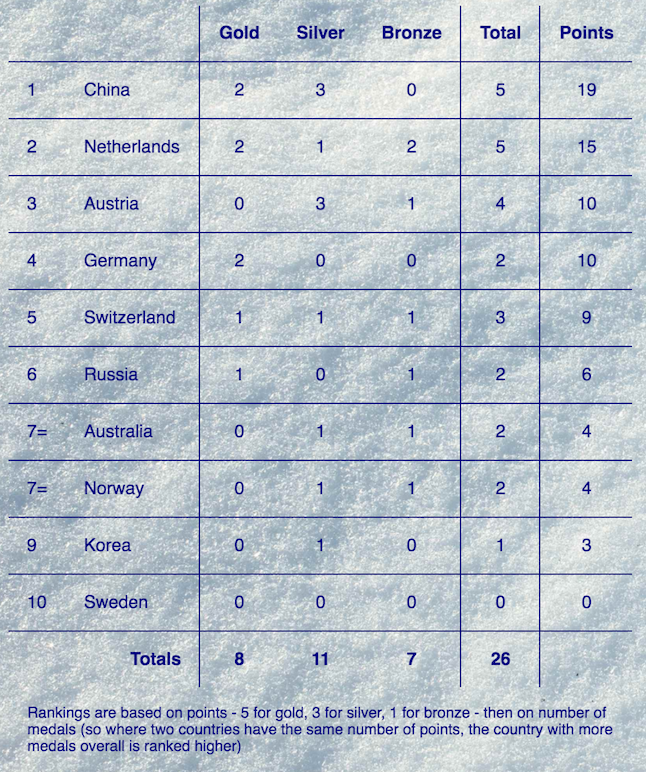
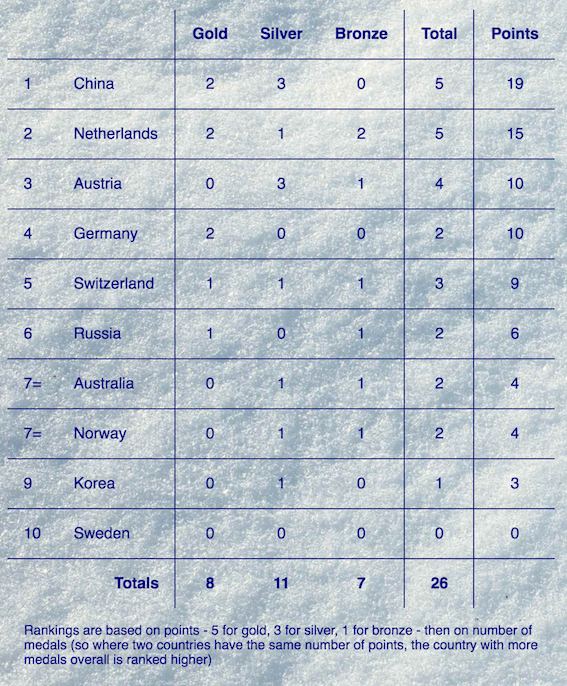
resize images, add to README

diff --git a/README.md b/README.md
@@ -3,3 +3,5 @@
 ##Dynamically updating medal table
 
 ![medal table](https://github.com/katemanson/Olympic_medal_table/raw/master/img/medal_table.png)
+![countries](https://github.com/katemanson/Olympic_medal_table/raw/master/img/countries.png)
+![sports](https://github.com/katemanson/Olympic_medal_table/raw/master/img/sports.png)
